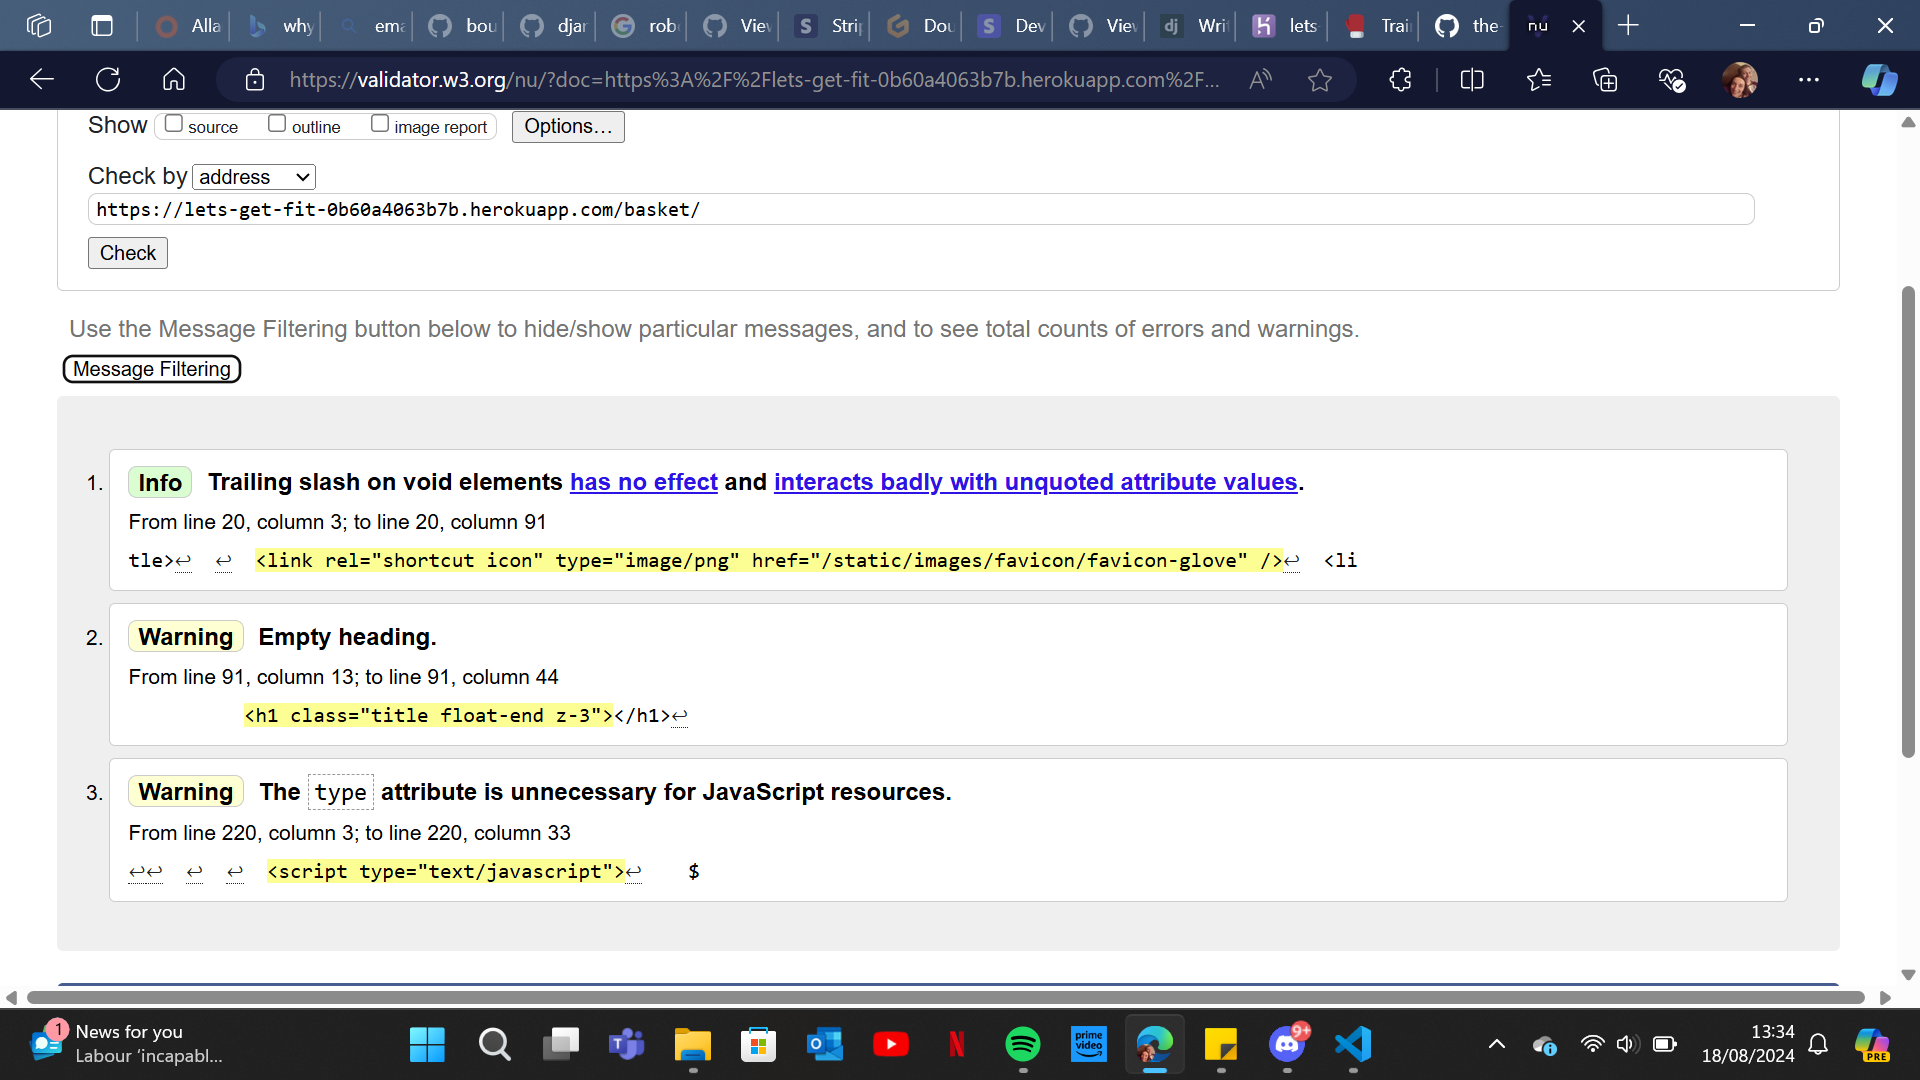
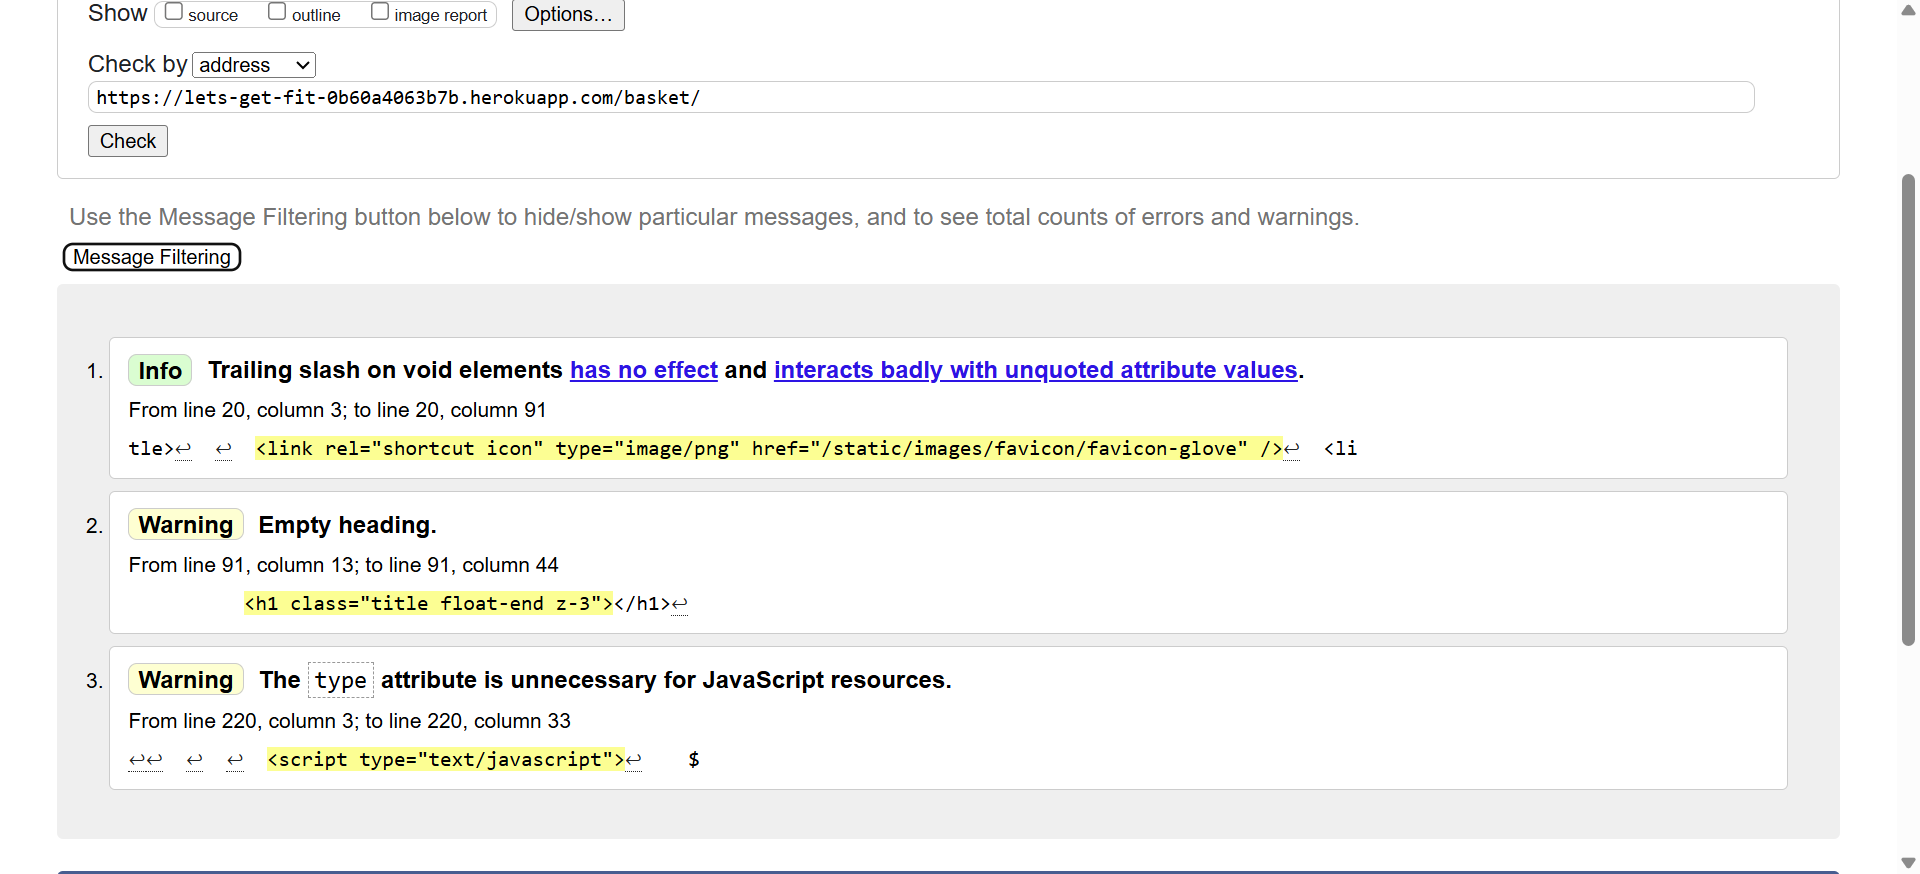
Feat(validations) i have updated the images to cut the web url and the task bar

diff --git a/ptsessions/templates/ptsessions/pt-sessions.html b/ptsessions/templates/ptsessions/pt-sessions.html
@@ -11,13 +11,6 @@
     </div>
 </div>
 <div class="container">
-    <div class="row">
-        <div class="col col-8">
-            <img class="img-fluid" src="/" alt="image will be uploaded by pt">
-        </div>
-    </div>
-</div>
-<div class="container">
     <div class="row border">
         {% for session in sessions %}
         <div class="col ptsessions text-center">

diff --git a/ptsessions/templates/ptsessions/index.html b/ptsessions/templates/ptsessions/index.html
@@ -12,9 +12,8 @@
 </div>
 <div class="container">
     <div class="row">
-        <div class="col">
+        <div class="col border">
             <p>Place marker for personal trainer sessions</p>
-            <img src="/" alt="image will be uploaded by pt">
         </div>
     </div>
 </div>

diff --git a/README.md b/README.md
@@ -208,7 +208,7 @@ Another blue button should appear to click: _Open Browser_.
 
 By Default, Gitpod gives you superuser security privileges. Therefore, you do not need to use the `sudo` (superuser do) command in the bash terminal in any of the lessons.
 
-To log into the Heroku toolbelt CLI:
+To log into the Heroku tool belt CLI:
 
 1. Log in to your Heroku account and go to *Account Settings* in the menu under your avatar.
 2. Scroll down to the *API Key* and click *Reveal*
